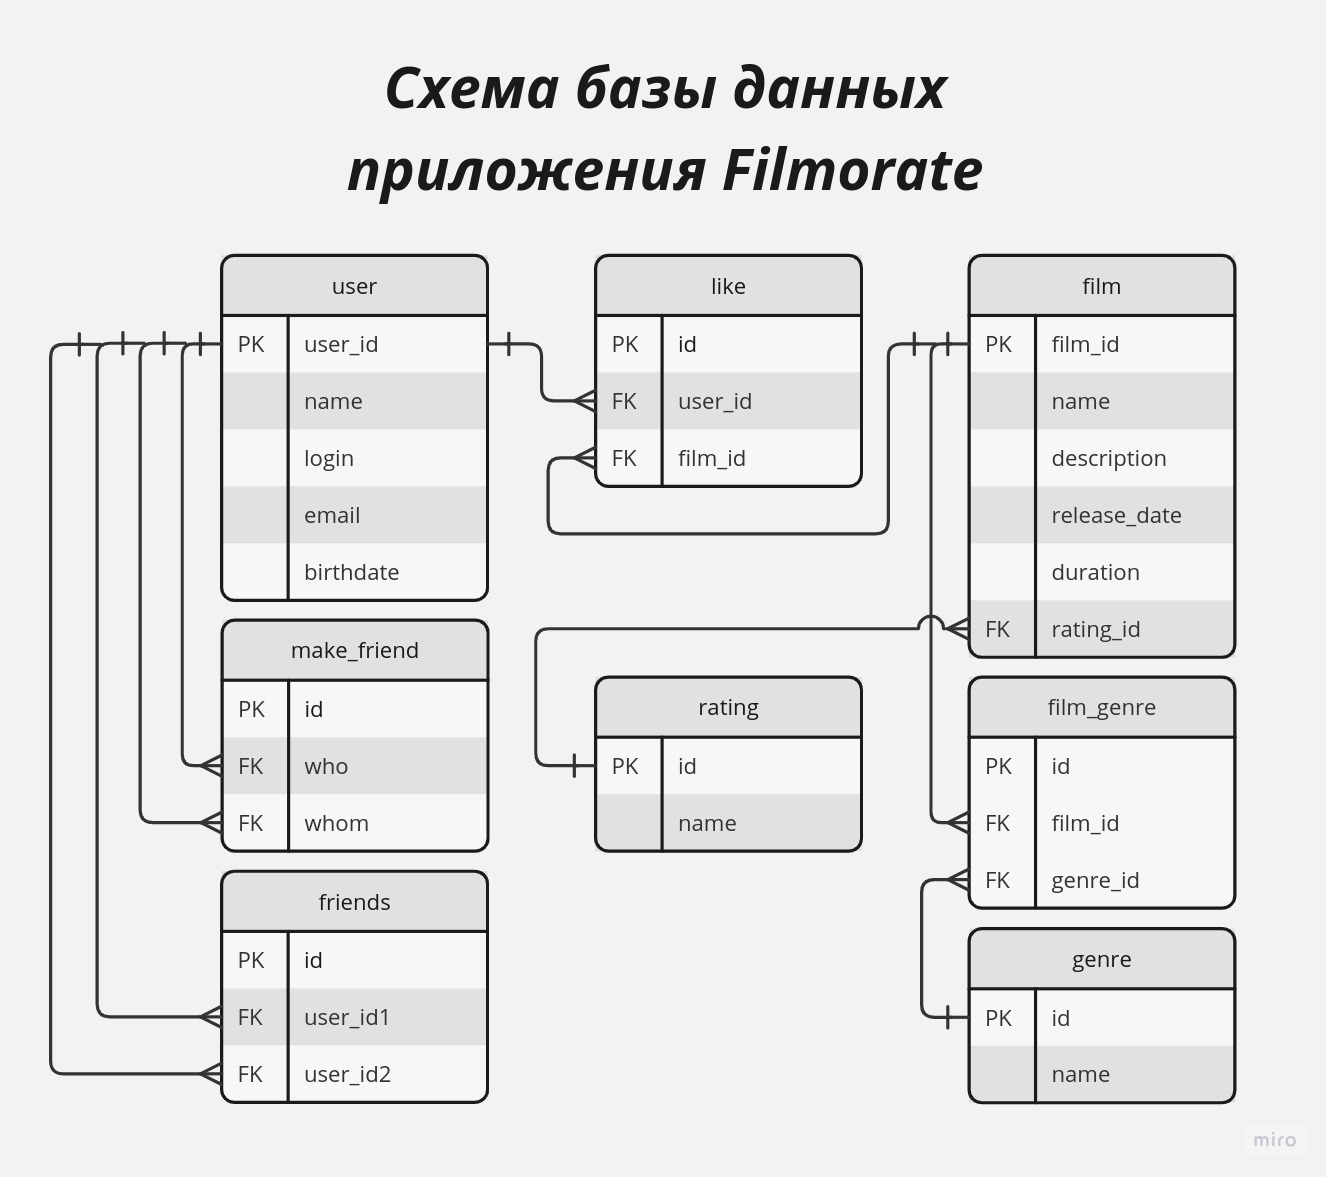
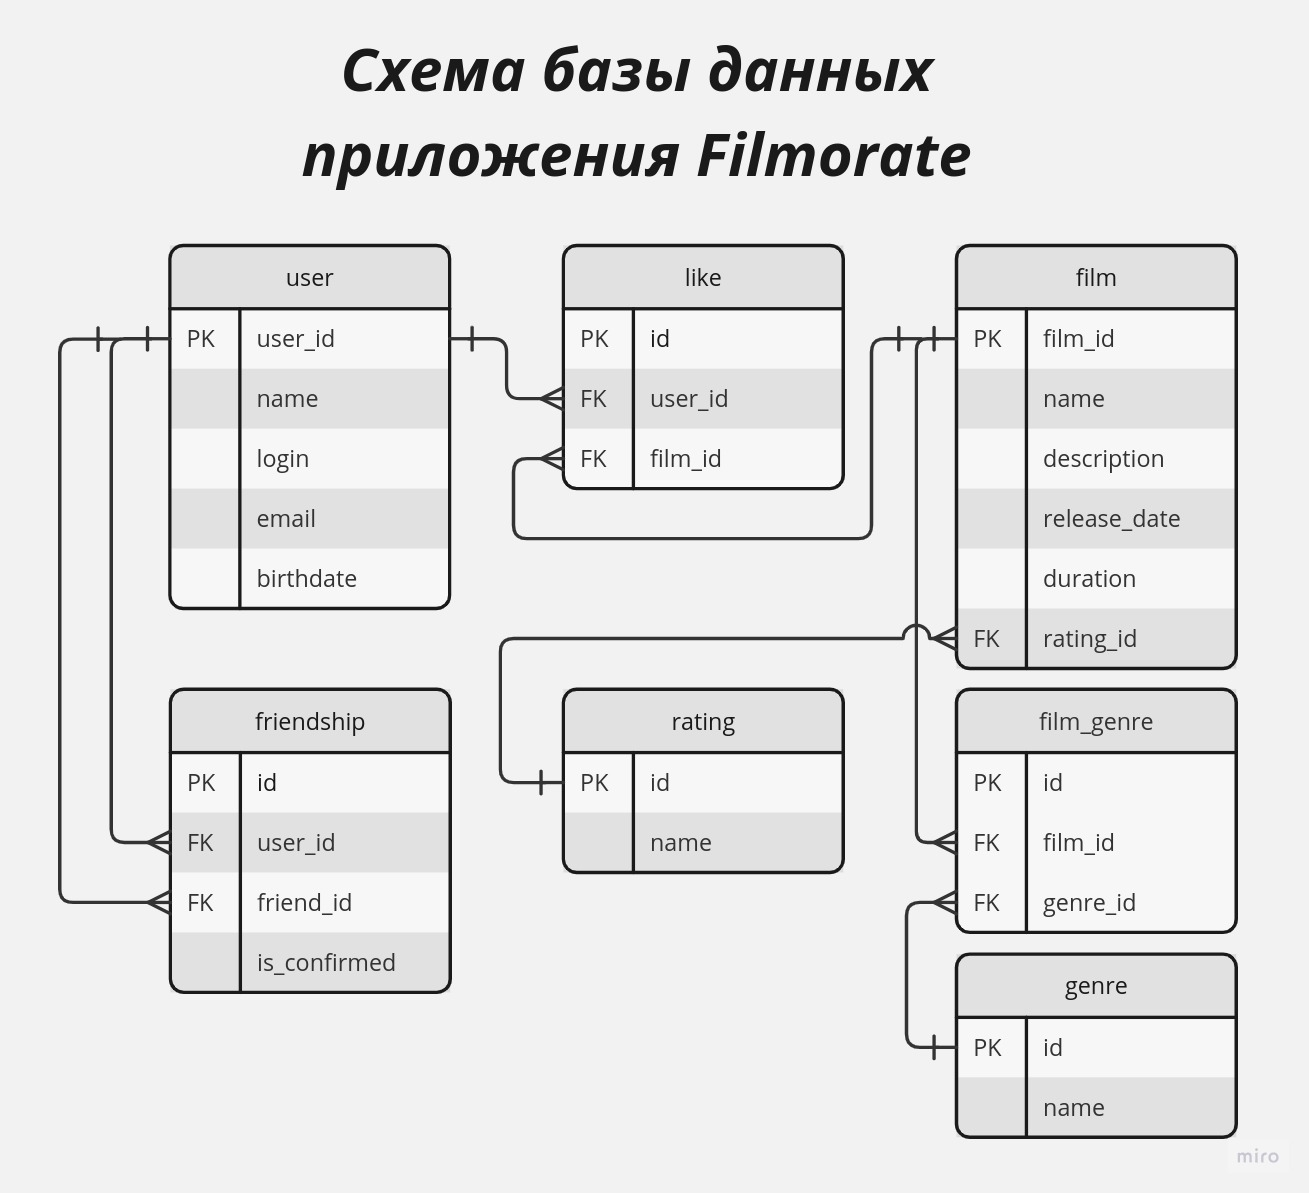
fix: изменено представление связи Дружба (friendship)
Исключена таблица make_friend, таблица friends преобразована в friendship,
в которую также введен дополнительный столбец is_confirmed.

Changed region(s): [[0.0306, 0.0306, 0.9473, 0.9788], [0.0611, 0.8258, 0.0917, 0.8564]]

diff --git a/README.md b/README.md
@@ -36,22 +36,19 @@
 * первичный ключ id;
 * name - рейтинг MPA (Ассоциации кинокомпаний).
 
-Для реализации запросов с предложением дружбы от одного пользователя к другому
-используется таблица make_friend, содержащая вторичные ключи who(кто) и whom(кому), которые 
-являются идентификаторами пользователей. Автоматический первичный ключ id используется 
-во время создания таблицы.
-
-Таблица friends реализует связь между пользователями, являющимися друзьями (вторичные ключи
-user_id1 и user_id2 представляют идентификаторы соответствующих пользователей).
-Автоматический первичный ключ id используется во время создания таблицы.
+Таблица friendship реализует связь между пользователями, являющимися друзьями или когда один
+предлагает дружбу другому (внешние ключи user_id и friend_id представляют идентификаторы 
+соответствующих пользователей, причем когда пользователь предлагает дружбу, он вносится в поле
+user_id, а кому предлагают дружбу - в friend_id). Принято ли предложение о дружбе - указывает 
+поле is_confirmed. Автоматический первичный ключ id используется во время создания таблицы.
 
 Таблица like реализует связь, указывающую на проставление пользователем лайка понравившемуся
 фильму. Для связи используются идентификаторы пользователя(user_id) и фильма(film_id), 
-являющиеся вторичными ключами. Автоматический первичный ключ id используется во время 
+являющиеся внешними ключами. Автоматический первичный ключ id используется во время 
 создания таблицы.
 
 Для реализации связи между фильмами и жанрами используется таблица film_genre. Атрибуты 
-с идентификаторами фильма(film_id) и жанра(genre_id) являются вторичными ключами.
+с идентификаторами фильма(film_id) и жанра(genre_id) являются внешними ключами.
 Автоматический первичный ключ id используется во время создания таблицы.
 
 ### Примеры SQL запросов для обращения к базе данных
